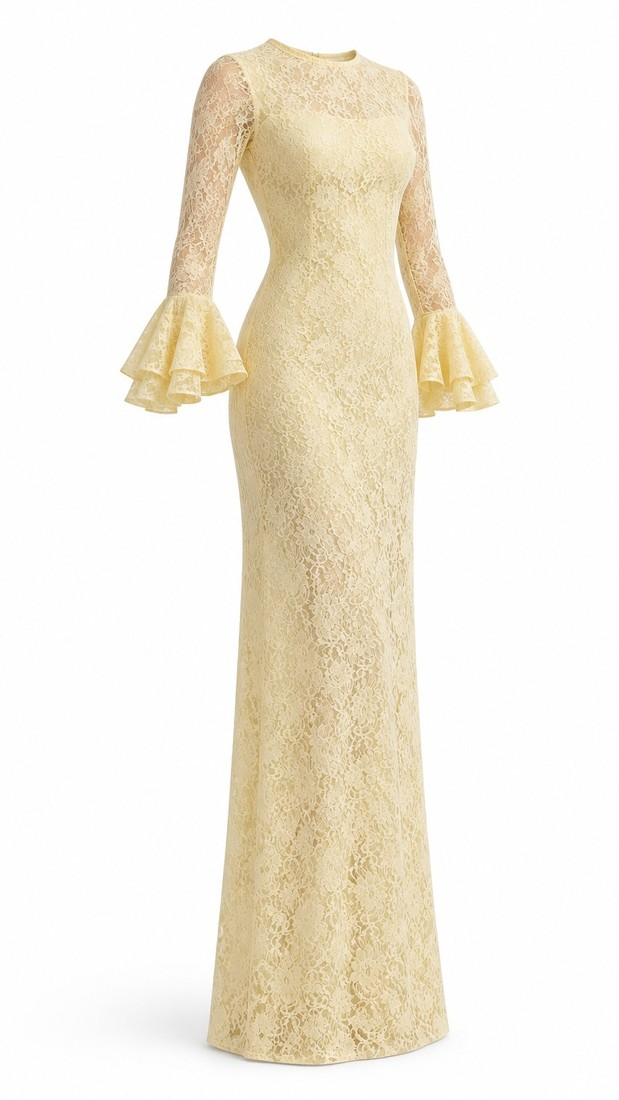
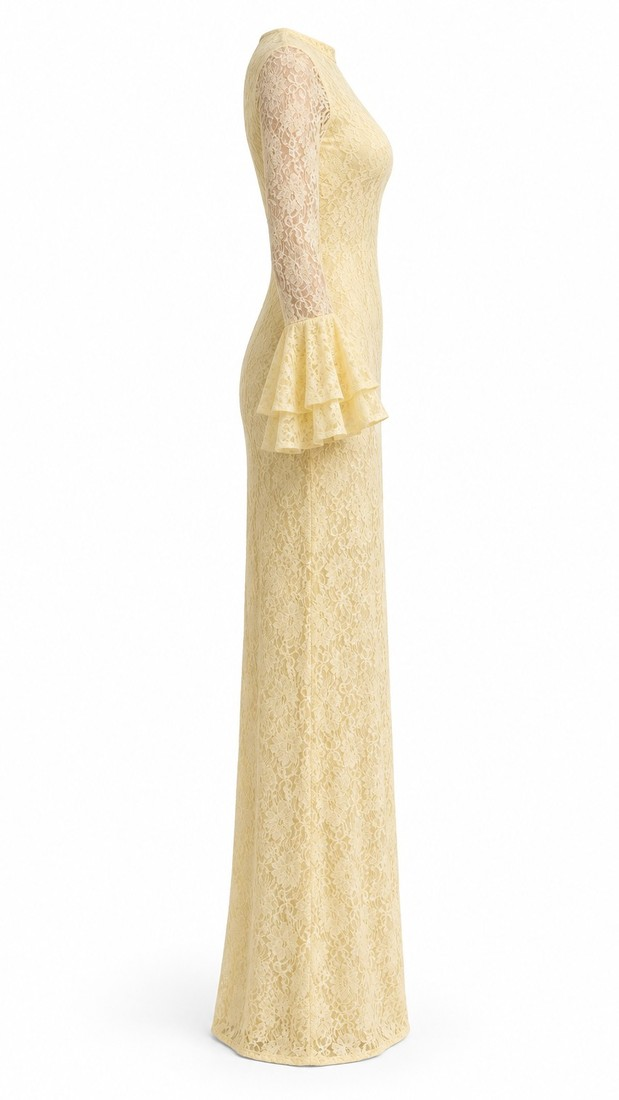
Обновление каталога 05.10.2026 00:42

Changed region(s): [[0.1842, 0.0, 0.8288, 0.9891]]

diff --git a/docs/index.html b/docs/index.html
@@ -270,7 +270,7 @@
   // Telegram-ник менеджера, без @. Заменить перед публикацией.
   const MANAGER = "Daniil_Artemyev";
 </script>
-<script src="products.js?v=f263ccaf"></script>
+<script src="products.js?v=74f36179"></script>
 <script>
 (function () {
   const items = window.PRODUCTS || [];

diff --git a/docs/products.js b/docs/products.js
@@ -901,7 +901,8 @@ window.PRODUCTS = [
    "photos/SH-36-1.jpg?v=7913d1a6",
    "photos/SH-36-2.jpg?v=1d098ddd",
    "photos/SH-36-3.jpg?v=1e854292",
-   "photos/SH-36-4.jpg?v=a3975c93"
+   "photos/SH-36-4.jpg?v=c68d4c46",
+   "photos/SH-36-5.jpg?v=a3975c93"
   ],
   "note": "",
   "variants": [
